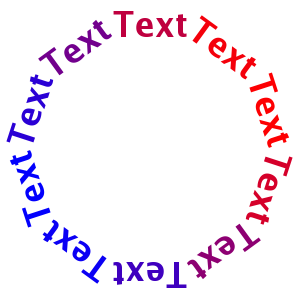
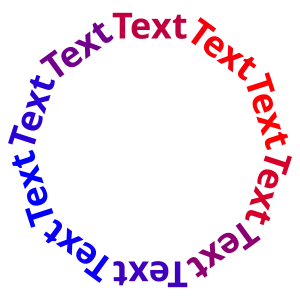
docs: Sync the cairo example

Changed region(s): [[0.0, 0.03, 0.99, 0.96]]

diff --git a/examples/cairosimple.c b/examples/cairosimple.c
@@ -1,50 +1,33 @@
-/* Simple example to use pangocairo to render rotated text */
-
 #include <math.h>
 #include <pango/pangocairo.h>
+
+#define RADIUS 150
+#define N_WORDS 10
+#define FONT "Sans Bold 27"
 
 static void
 draw_text (cairo_t *cr)
 {
-#define RADIUS 200
-#define N_WORDS 8
-#define FONT_WITH_MANUAL_SIZE "Times new roman,Sans"
-#define FONT_SIZE 36
-#define DEVICE_DPI 72
-
-/* The following number applies a cairo CTM.  Tests for
- * https://bugzilla.gnome.org/show_bug.cgi?id=700592
- */
-#define TWEAKABLE_SCALE ((double) 0.1)
-
-  PangoContext *context;
   PangoLayout *layout;
   PangoLines *lines;
   PangoFontDescription *desc;
   int i;
 
-  /* Center coordinates on the middle of the region we are drawing
-   */
-  cairo_translate (cr, RADIUS / TWEAKABLE_SCALE, RADIUS / TWEAKABLE_SCALE);
+  /* Center coordinates on the middle of the region we are drawing */
+  cairo_translate (cr, RADIUS, RADIUS);
 
   /* Create a PangoLayout, set the font and text */
-  context = pango_cairo_create_context (cr);
-  layout = pango_layout_new (context);
-  g_object_unref (context);
+  layout = pango_cairo_create_layout (cr);
 
-  pango_layout_set_text (layout, "Test\nسَلام", -1);
-
-  desc = pango_font_description_from_string (FONT_WITH_MANUAL_SIZE);
-  pango_font_description_set_absolute_size (desc, FONT_SIZE * DEVICE_DPI * PANGO_SCALE / (72.0 * TWEAKABLE_SCALE));
-  //pango_font_description_set_size(desc, 27 * PANGO_SCALE / TWEAKABLE_SCALE);
-
+  pango_layout_set_text (layout, "Text", -1);
+  desc = pango_font_description_from_string (FONT);
   pango_layout_set_font_description (layout, desc);
   pango_font_description_free (desc);
 
   /* Draw the layout N_WORDS times in a circle */
   for (i = 0; i < N_WORDS; i++)
     {
-      PangoRectangle ext;
+      int width, height;
       double angle = (360. * i) / N_WORDS;
       double red;
 
@@ -61,18 +44,19 @@ draw_text (cairo_t *cr)
 
       lines = pango_layout_get_lines (layout);
 
-      pango_lines_get_extents (lines, NULL, &ext);
-      cairo_move_to (cr,( - (((double)ext.width) / PANGO_SCALE) / 2.0) , (- RADIUS)  / TWEAKABLE_SCALE);
-      pango_cairo_show_lines (cr, lines);
+      pango_lines_get_size (lines, &width, &height);
+      cairo_move_to (cr, - ((double) width / PANGO_SCALE) / 2, - RADIUS);
+      pango_cairo_show_layout (cr, layout);
 
       cairo_restore (cr);
     }
 
-  /* free the layout object */
+  /* Free the layout object */
   g_object_unref (layout);
 }
 
-int main (int argc, char **argv)
+int
+main (int argc, char **argv)
 {
   cairo_t *cr;
   char *filename;
@@ -85,13 +69,11 @@ int main (int argc, char **argv)
       return 1;
     }
 
-     filename = argv[1];
+  filename = argv[1];
 
   surface = cairo_image_surface_create (CAIRO_FORMAT_ARGB32,
                                         2 * RADIUS, 2 * RADIUS);
   cr = cairo_create (surface);
-
-  cairo_scale(cr, 1 * TWEAKABLE_SCALE, 1 * TWEAKABLE_SCALE);
 
   cairo_set_source_rgb (cr, 1.0, 1.0, 1.0);
   cairo_paint (cr);

diff --git a/docs/pango_cairo.md b/docs/pango_cairo.md
@@ -13,9 +13,10 @@ this section allow using Pango to render to Cairo surfaces.
 Using Pango with Cairo is straightforward. A `PangoContext` created with
 [func@Pango.cairo_create_context] can be used on any Cairo context (`cairo_t`),
 but needs to be updated to match the current transformation matrix and target
-surface of the Cairo context using [func@Pango.cairo_update_context]. The
-convenience function [func@Pango.cairo_update_layout] handles the common case
-where the program doesn't need to manipulate the properties of the `PangoContext`.
+surface of the Cairo context using [func@Pango.cairo_update_context].
+The convenience functions [func@Pango.cairo_create_layout] and
+[func@Pango.cairo_update_layout] handle the common case where the program
+doesn't need to manipulate the properties of the `PangoContext`.
 
 When you get the metrics of a layout or of a piece of a layout using functions
 such as [method@Pango.Lines.get_extents], the reported metrics are in user-space
@@ -59,7 +60,6 @@ draw_text (cairo_t *cr)
   /* Draw the layout N_WORDS times in a circle */
   for (i = 0; i < N_WORDS; i++)
     {
-      PangoRectangle ext;
       int width, height;
       double angle = (360. * i) / N_WORDS;
       double red;
@@ -77,14 +77,14 @@ draw_text (cairo_t *cr)
 
       lines = pango_layout_get_lines (layout);
 
-      pango_lines_get_extents (lines, NULL, &ext);
-      cairo_move_to (cr, - ((double)ext.width / PANGO_SCALE) / 2, - RADIUS);
-      pango_cairo_show_lines (cr, layout);
+      pango_lines_get_size (lines, &width, &height);
+      cairo_move_to (cr, - ((double) width / PANGO_SCALE) / 2, - RADIUS);
+      pango_cairo_show_layout (cr, layout);
 
       cairo_restore (cr);
     }
 
-  /* free the layout object */
+  /* Free the layout object */
   g_object_unref (layout);
 }
 
